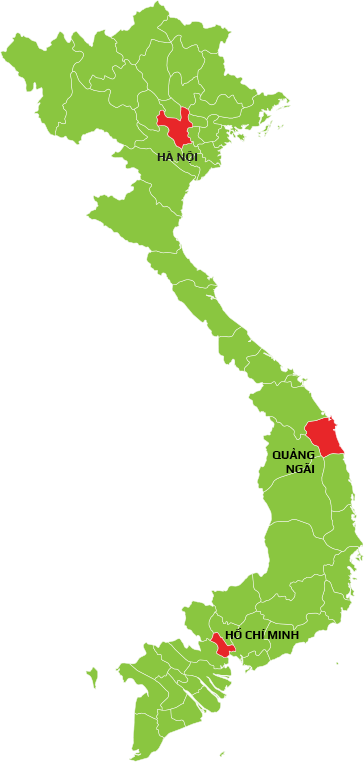
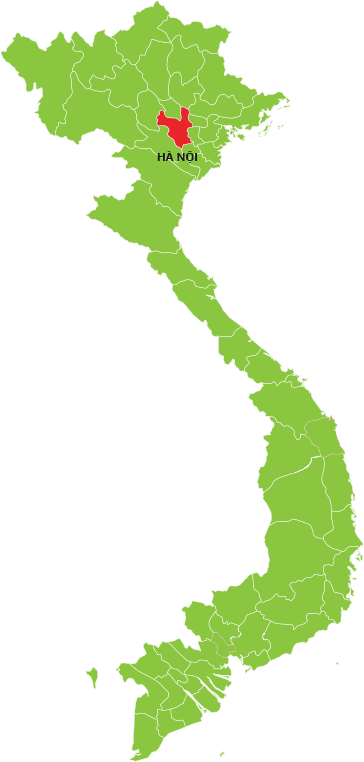
lastest one

Changed region(s): [[0.7555, 0.5433, 0.9368, 0.6339], [0.5742, 0.815, 0.8159, 0.8753]]

diff --git a/app/ui/imageslider.tsx b/app/ui/imageslider.tsx
@@ -4,50 +4,24 @@ export default function ImageSlider() {
             <div id="carousel-main-slide" className="carousel slide" data-bs-ride="carousel" data-bs-interval="false">
                 <div className="carousel-inner">
                 <div className="carousel-item active">
-                    <img src="storage/image/452/TCzoGzAnpxpO6jAtuLJ24rQHf4hkwgwtTJZ0QM3O.jpeg" alt="Quốc khánh 2.9" className="d-block w-100" />
+                    <img src="imgs/banner/banner1.png" alt="" className="d-block w-100" />
                 </div>
                 <div className="carousel-item">
-                    <img src="storage/image/349/HPMSFCcwSsAKq6A8crfk2Lu4IIWm8NqwITKHAvs0.png" alt="chúc mừng năm mới 2024" className="d-block w-100" />
+                    <img src="imgs/banner/banner2.png" alt="chúc mừng năm mới 2024" className="d-block w-100" />
                 </div>
                 <div className="carousel-item">
                     <img
-                    src="storage/image/379/GoWAbjEhGPyjAYzYuKR87o5xfs62rdrxvDAfu1Bb.png"
+                    src="imgs/banner/banner3.png"
                     alt="Hạnh Phúc - Dịch vụ cung cấp suất ăn công nghiệp tại Sơn La hàng đầu"
                     className="d-block w-100"
                     />
                 </div>
                 <div className="carousel-item">
                     <img
-                    src="storage/image/438/hNRHev1y1SaRbXOq9t3Qhqm5WdyugUHC41BZX8xA.png"
+                    src="imgs/banner/banner4.png"
                     alt="Công ty suất ăn công nghiệp"
                     className="d-block w-100"
                     />
-                </div>
-                <div className="carousel-item">
-                    <img
-                    src="storage/image/393/uLz0aG6uUh5IBQsPYTCvIETahaNJlFSHsxmdnDRm.jpeg"
-                    alt="Suất ăn công nghiệp Hạnh Phúc"
-                    className="d-block w-100"
-                    />
-                </div>
-                <div className="carousel-item">
-                    <img
-                    src="storage/image/151/Ji0sZiSR6KFVaowEroYNfKxtKmPOj6J33aIyKuQO.jpeg"
-                    alt="Banner Suất ăn công nghiệp Hạnh Phúc"
-                    className="d-block w-100"
-                    />
-                </div>
-                <div className="carousel-item">
-                    <a href="vi/su-khac-biet#" target="_blank" title="Banner 1 Suất ăn công nghiệp Hạnh Phúc">
-                    <img
-                        src="storage/image/394/zIyWA6UipcDlJK9yuWYqd8xR3BWKle8itQU8L5xa.jpeg"
-                        alt="Banner 1 Suất ăn công nghiệp Hạnh Phúc"
-                        className="d-block w-100"
-                    />
-                    </a>
-                </div>
-                <div className="carousel-item">
-                    <img src="storage/image/430/8lt0AurmamXDdjPoV80ixMsFhfSrjj1B8JUw35Up.jpeg" alt="Bò tơ quán mộc" className="d-block w-100" />
                 </div>
                 </div>
                 <button className="carousel-control-prev" type="button" data-bs-target="#carousel-main-slide" data-bs-slide="prev">

diff --git a/app/(landing page)/page.tsx b/app/(landing page)/page.tsx
@@ -93,7 +93,7 @@ export default function Home() {
         <div className="section-body news _2col">
           <ul className="list-unstyled d-flex list">
             <li className="item">
-              <a href="vi/dich-vu" className="img">
+              <a href="industrial-catering-service" className="img">
                 <div
                   className="img-bg rounded"
                   style={{
@@ -108,7 +108,7 @@ export default function Home() {
               </p>
             </li>
             <li className="item">
-              <a href="vi/dich-vu/Dich-vu-cung-cap-thuc-pham.html" className="img">
+              <a href="food-delivery-service" className="img">
                 <div
                   className="img-bg rounded"
                   style={{

diff --git a/app/ui/navbar.tsx b/app/ui/navbar.tsx
@@ -120,7 +120,8 @@ export default function NavBar() {
                     </Link>
                     </li>
                 </ul>
-                <div className="d-flex">
+                
+                {/* <div className="d-flex">
                     <ul className="navbar-nav me-auto mb-2 mb-lg-0">
                     <li className="nav-item dropdown lang-menu">
                         <Link
@@ -151,7 +152,7 @@ export default function NavBar() {
                         </ul>
                     </li>
                     </ul>
-                </div>
+                </div> */}
                 </div>
             </div>
         </nav>

diff --git a/app/recruitment/page.tsx b/app/recruitment/page.tsx
@@ -16,6 +16,7 @@ export default function Diagram() {
     <MainLayout>
       <section className="section recruitment">
         <div className="container">
+          
           <header className="section-header">
             <h1>Tuyển dụng Nhân viên Bếp</h1>
             <p>Công ty TNHH Dịch vụ &amp; Thương mại Hạnh Phúc</p>
